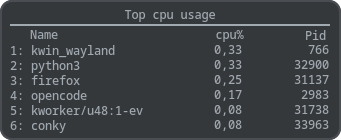
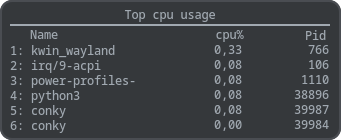
README: add top widget screenshots, capture delay fix

diff --git a/README.md b/README.md
@@ -37,9 +37,9 @@ The Designer auto-saves and triggers SIGUSR1 reloads — Conky updates instantly
 |:---:|:---:|:---:|
 | ![clock_cal](screenshots/clock_cal.png) | ![clock_cal_calendar](screenshots/clock_cal_calendar.png) | ![info](screenshots/info.png) |
 
-| Memory + Swap | NVIDIA GPU |
-|:---:|:---:|
-| ![mem_swap](screenshots/mem_swap.png) | ![nvidia](screenshots/nvidia.png) |
+| Memory + Swap | NVIDIA GPU | Top (Multi-View) | Top — View 2 |
+|:---:|:---:|:---:|:---:|
+| ![mem_swap](screenshots/mem_swap.png) | ![nvidia](screenshots/nvidia.png) | ![top](screenshots/top.png) | ![top_view_1](screenshots/top_view_1.png) |
 
 ---
 
